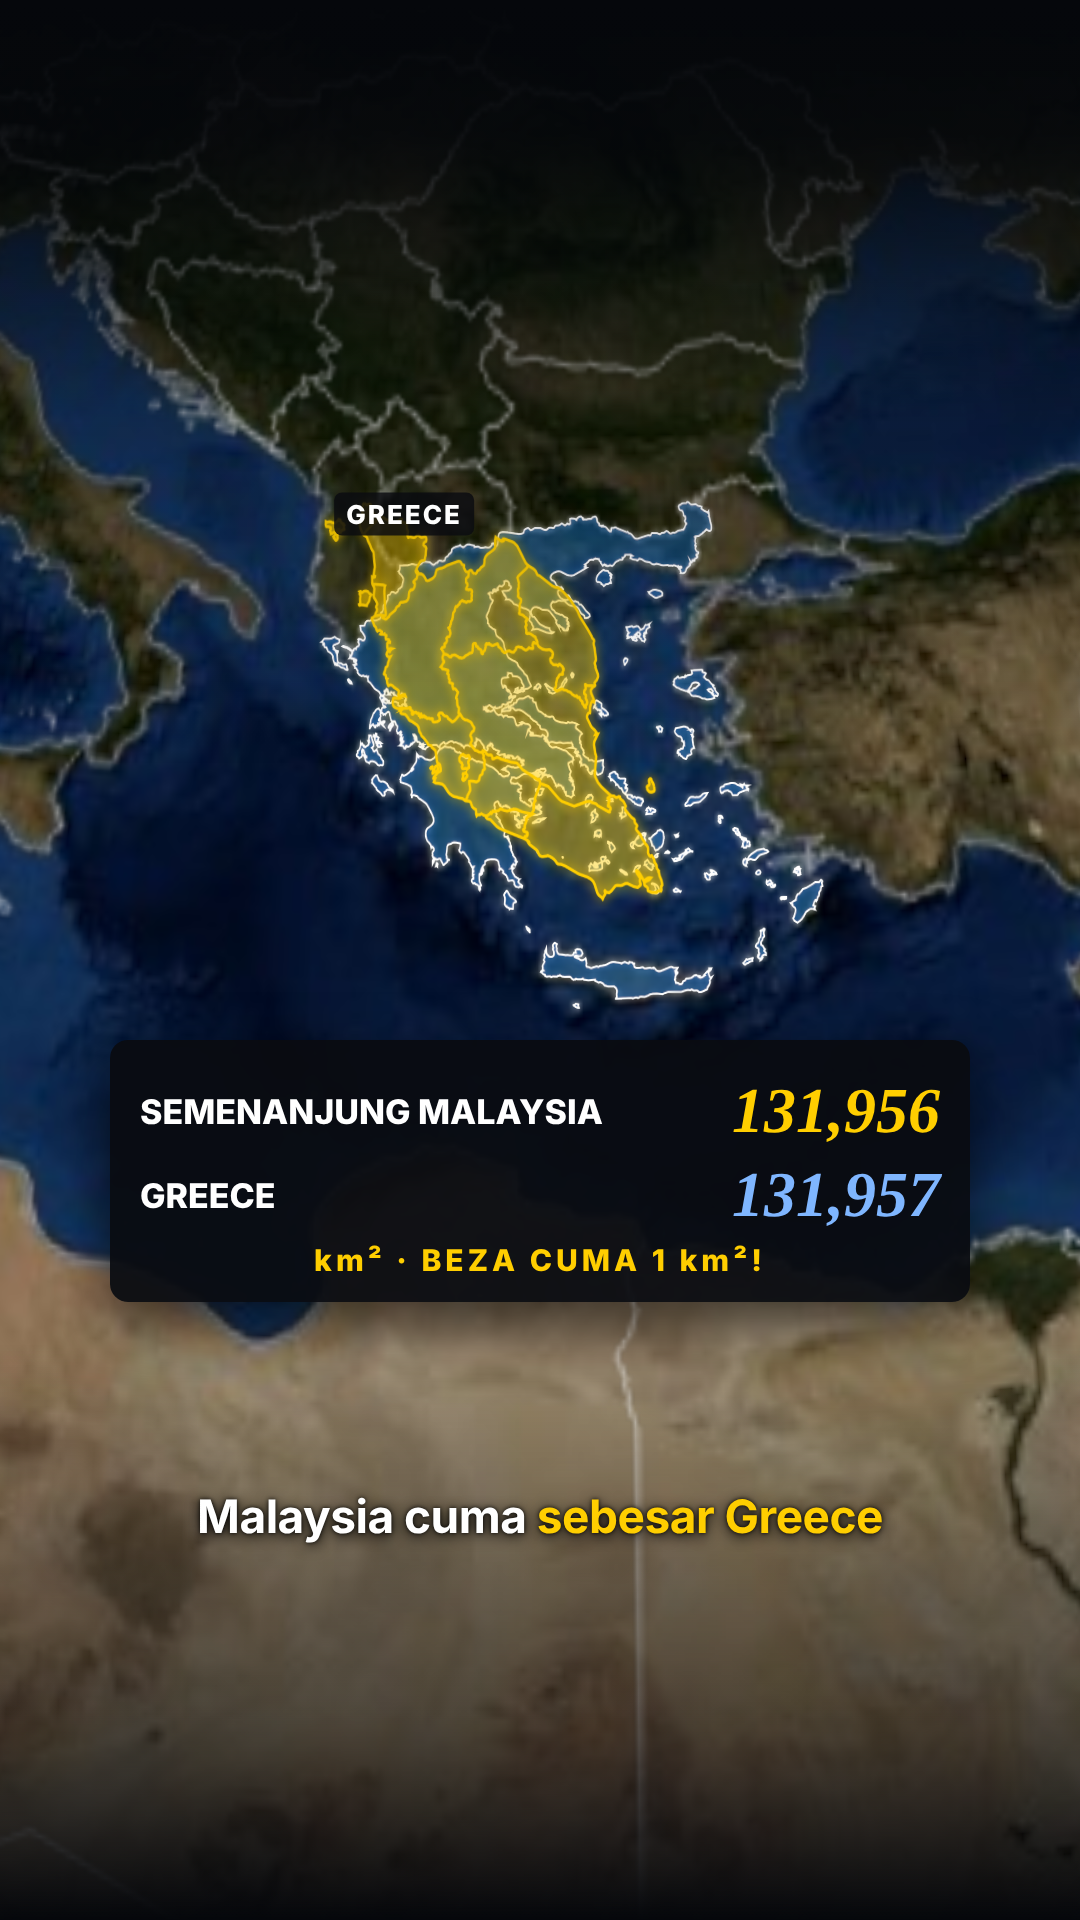
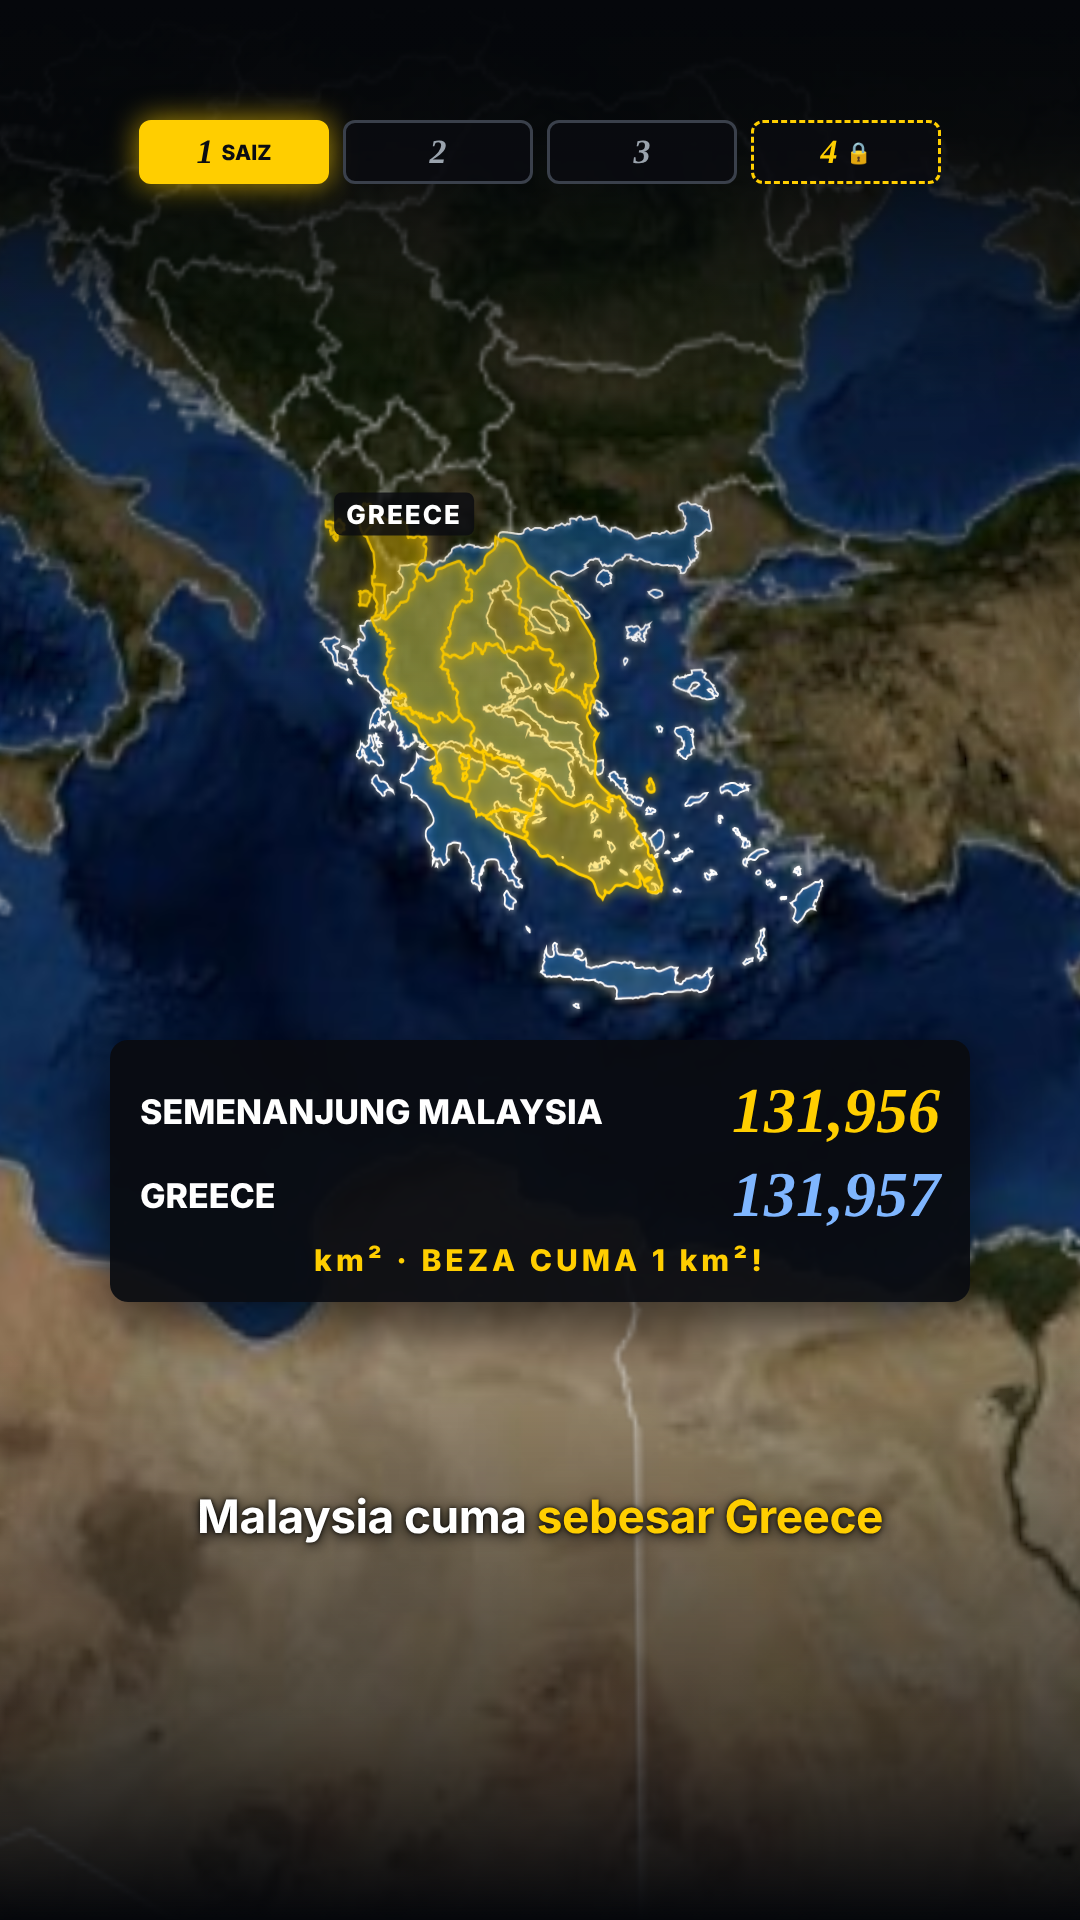
whatif-sabah-video: script v2 with open loop + re-hook, storyboard v2
Claude-Session: https://claude.ai/code/session_01GRVCpVLeEipRvyW43UFZDP

diff --git a/whatif-sabah-video/boards/frame.html b/whatif-sabah-video/boards/frame.html
@@ -193,6 +193,17 @@ html,body{width:1080px;height:1920px;background:#05070b;overflow:hidden;font-fam
 .chips{position:absolute;left:60px;right:60px;display:flex;flex-wrap:wrap;justify-content:center;gap:18px}
 .chips span{font:800 40px Inter;color:#0b0d12;background:#ffce00;padding:14px 26px;border-radius:14px;box-shadow:0 12px 30px rgba(0,0,0,.5)}
 .chips span.w{background:#fff}
+.trk{position:absolute;top:120px;left:0;right:0;display:flex;justify-content:center;gap:14px}
+.trk div{width:190px;height:64px;border-radius:12px;display:flex;align-items:center;justify-content:center;gap:8px;font:800 21px Inter;color:#9aa3ad;background:rgba(10,12,17,.85);border:3px solid #3a404b}
+.trk div b{font:italic 700 34px Serif}.trk div.on{color:#0b0d12;background:#ffce00;border-color:#ffce00}.trk div.now{box-shadow:0 0 30px rgba(255,206,0,.7)}
+.trk div.lock{color:#ffce00;border-color:#ffce00;border-style:dashed}
+.list4{position:absolute;left:90px;right:90px;display:grid;grid-template-columns:1fr 1fr;gap:18px}
+.list4 div{height:120px;border-radius:16px;background:rgba(10,12,17,.9);border:3px solid #3a404b;display:flex;align-items:center;justify-content:center;gap:14px;font:800 40px Inter;color:#c9d0d8}
+.list4 div b{font:italic 700 64px Serif;color:#ffce00}.list4 div.q{border:4px dashed #ffce00;color:#ffce00;box-shadow:0 0 40px rgba(255,206,0,.35)}
+.nots{position:absolute;left:0;right:0;text-align:center}
+.nots div{font:800 70px Inter;color:#c9d0d8;margin:10px 0;position:relative;display:inline-block}
+.nots div::after{content:"";position:absolute;left:-14px;right:-14px;top:50%;height:10px;background:#ff4d5e;transform:rotate(-4deg)}
+.nots .x{display:block}
 </style></head><body>
 <canvas id="gl" width="1080" height="1920"></canvas>
 <div class="vig"></div>
@@ -244,12 +255,14 @@ function penOnGreece() {
   c.fillStyle = "rgba(255,206,0,.45)"; c.fill("evenodd"); c.shadowColor = "#ffce00"; c.shadowBlur = 20; c.strokeStyle = "#ffce00"; c.lineWidth = 5; c.stroke(); c.shadowBlur = 0; L.tex.needsUpdate = true;
 }
 const person = `<svg viewBox="0 0 34 44"><circle cx="17" cy="10" r="8" fill="#ffce00"/><path d="M3 44 Q3 22 17 22 Q31 22 31 44Z" fill="#ffce00"/></svg>`;
+const trk = (n, lockShake) => html(`<div class="trk">${["SAIZ", "KINABALU", "RAKYAT", "TENAGA"].map((l, i) => `<div class="${i < n ? "on" : i === 3 ? "lock" : ""} ${i === n - 1 ? "now" : ""}"><b>${i + 1}</b>${i < n ? l : i === 3 ? "🔒" : ""}</div>`).join("")}</div>`);
 const FR = {
   1() { fillShapes("pen", PEN, myFlag); fillShapes("bor", [...SABAH, ...SARAWAK], solid("rgba(5,7,11,.6)", { stroke: "#ff4d5e", lw: 6, dash: [16, 10] }));
     g.setView({ lat: 4.2, lon: 109, dist: 1.5, tilt: 8, yShift: 0.14 });
     tag(2.6, 113.3, "SARAWAK?"); tag(5.4, 117.1, "SABAH?");
-    html(`<div class="ttl" style="top:1000px"><div class="a">BAYANGKAN…</div><div class="b" style="font-size:92px">MALAYSIA <span>TANPA</span></div><div class="b" style="font-size:72px">SABAH &amp; SARAWAK</div></div>`);
-    capB(`Malaysia tanpa <span class="r">Sabah dan Sarawak</span>`); },
+    html(`<div class="ttl" style="top:900px"><div class="a">BAYANGKAN…</div><div class="b" style="font-size:92px">MALAYSIA <span>TANPA</span></div><div class="b" style="font-size:72px">SABAH &amp; SARAWAK</div></div>`);
+    html(`<div class="list4" style="top:1110px"><div><b>1</b>?</div><div><b>2</b>?</div><div><b>3</b>?</div><div class="q"><b>4</b>🔒</div></div>`);
+    capB(`Yang keempat, <span class="r">ramai tak sangka!</span>`); },
   2() { fillShapes("pen", PEN, solid("rgba(255,206,0,.3)", { stroke: "#ffce00" })); fillShapes("bor", [...SABAH, ...SARAWAK], solid("rgba(255,206,0,.55)", { stroke: "#ffce00", glow: "#ffce00", lw: 5 }));
     g.setView({ lat: 3.8, lon: 109, dist: 1.5, tilt: 8, yShift: 0.06 });
     tag(4.4, 102.3, "TANAH MELAYU"); tag(2.6, 113.3, "SARAWAK", 1); tag(5.4, 117.1, "SABAH", 1);
@@ -258,32 +271,37 @@ const FR = {
   3() { fillShapes("pen", PEN, solid("rgba(120,130,145,.35)", { stroke: "#c9d0d8", lw: 3 })); fillShapes("bor", [...SABAH, ...SARAWAK], solid("rgba(255,206,0,.6)", { stroke: "#ffce00", glow: "#ffce00", lw: 5 }));
     g.setView({ lat: 4.0, lon: 109, dist: 1.5, tilt: 8, yShift: 0.18 });
     html(`<div class="big60" style="top:1000px"><div class="k">KELUASAN TANAH MALAYSIA</div><div class="n">60%</div><div class="u">DI SABAH &amp; SARAWAK</div><div class="split"><div style="width:40%;background:#5b6573;color:#fff">SEMENANJUNG 40%</div><div style="width:60%;background:#ffce00;color:#0b0d12">SABAH + SARAWAK 60%</div></div></div>`);
-    capB(`<span class="r">enam puluh peratus</span> tanah Malaysia!`); },
+    trk(1); capB(`<span class="r">enam puluh peratus</span> tanah Malaysia!`); },
   4() { fillShapes("gr", [GR], solid("rgba(13,94,175,.55)", { stroke: "#fff", lw: 4 }), 6, { lon0: 19, lon1: 30, lat0: 34, lat1: 42.5, ppd: 140 }); penOnGreece();
     g.setView({ lat: 38.6, lon: 23.5, dist: 0.85, tilt: 10, yShift: 0.12 });
     tag(41.6, 21.0, "GREECE");
     html(`<div class="cmp2" style="top:1040px"><div class="row"><span>SEMENANJUNG MALAYSIA</span><b style="color:#ffce00">131,956</b></div><div class="row"><span>GREECE</span><b style="color:#7fb6ff">131,957</b></div><div class="eq">km² · BEZA CUMA 1 km²!</div></div>`);
-    capB(`Malaysia cuma <span class="r">sebesar Greece</span>`); },
+    trk(1); capB(`Malaysia cuma <span class="r">sebesar Greece</span>`); },
   5() { g.setView({ lat: 6.02, lon: 116.56, dist: 0.06, tilt: 10, yShift: 0.12 });
     pin(6.075, 116.558, "GUNUNG KINABALU", "4,095 m · PUNCAK TERTINGGI MALAYSIA");
-    html(`<div class="ttl" style="top:250px"><div class="a">KEDUA</div><div class="b" style="font-size:90px">4,095 <span>METER</span></div></div>`);
-    capB(`puncak tertinggi negara, <span class="r">bukan milik kita lagi</span>`); },
+    html(`<div class="ttl" style="top:250px"><div class="a">KEDUA · PUNCAK TERTINGGI</div><div class="b" style="font-size:90px">4,095 <span>METER</span></div></div>`);
+    trk(2); capB(`puncak tertinggi negara, <span class="r">bukan milik kita lagi</span>`); },
   6() { fillShapes("bor", [...SABAH, ...SARAWAK], solid("rgba(255,206,0,.45)", { stroke: "#ffce00", lw: 4 })); g.setView({ lat: 4.0, lon: 114.5, dist: 0.9, tilt: 8, yShift: 0.16 });
     html(`<div class="big60" style="top:980px"><div class="k">KETIGA · BANCI 2020</div><div class="n" style="font-size:150px">5.9 JUTA</div><div class="u">RAKYAT SABAH &amp; SARAWAK</div><div class="ppl">${Array.from({ length: 6 }, () => person).join("")}</div></div>`);
-    capB(`hampir <span class="r">enam juta rakyat</span> Sabah dan Sarawak`); },
-  7() { g.setView({ lat: 3.22, lon: 113.08, dist: 0.05, tilt: 10, yShift: 0.12 });
+    trk(3); capB(`hampir <span class="r">enam juta rakyat</span> Sabah dan Sarawak`); },
+  7() { g.setView({ lat: 4.0, lon: 113.5, dist: 1.0, tilt: 8, yShift: 0.1 }); html(`<div style="position:absolute;inset:0;background:radial-gradient(ellipse at 50% 45%,rgba(5,10,30,.35),rgba(5,10,30,.93))"></div>`);
+    trk(3); html(`<div style="position:absolute;top:300px;left:0;right:0;text-align:center"><span style="display:inline-block;font:800 40px Inter;letter-spacing:6px;color:#0b0d12;background:#ffce00;padding:8px 22px;border-radius:8px">TUNGGU DULU…</span></div>`);
+    html(`<div class="nots" style="top:520px"><div>BUKAN TANAH</div><span class="x"></span><div>BUKAN GUNUNG</div></div>`);
+    html(`<div class="ttl" style="top:900px"><div class="b" style="font-size:80px">TAPI YANG <span>GERAKKAN</span></div><div class="b" style="font-size:80px">EKONOMI KITA…</div></div>`);
+    capB(`bukan tanah, bukan gunung, <span class="r">tapi…</span>`); },
+  8() { g.setView({ lat: 3.22, lon: 113.08, dist: 0.05, tilt: 10, yShift: 0.12 });
     pin(3.265, 113.07, "BINTULU, SARAWAK", "KOMPLEKS LNG PETRONAS");
-    html(`<div class="ttl" style="top:250px"><div class="a">KEEMPAT · TENAGA</div><div class="b" style="font-size:84px">GAS <span>ASLI CECAIR</span></div></div>`);
+    html(`<div class="ttl" style="top:250px"><div class="a">KEEMPAT</div><div class="b" style="font-size:110px">TENAGA<span>!</span></div></div>`);
     html(`<div class="big60" style="top:1080px"><div class="k">ANTARA KOMPLEKS LNG TERBESAR DUNIA</div><div class="n" style="font-size:120px">~29 JUTA</div><div class="u">TAN SETAHUN · DI SATU LOKASI</div></div>`);
-    capB(`antara kompleks gas asli cecair <span class="r">terbesar di dunia!</span>`); },
-  8() { fillShapes("all", [...PEN, ...SABAH, ...SARAWAK], myFlag); g.setView({ lat: 3.8, lon: 109, dist: 1.6, tilt: 8, yShift: -0.02 });
+    trk(4); capB(`antara kompleks gas asli cecair <span class="r">terbesar di dunia!</span>`); },
+  9() { fillShapes("all", [...PEN, ...SABAH, ...SARAWAK], myFlag); g.setView({ lat: 3.8, lon: 109, dist: 1.6, tilt: 8, yShift: -0.02 });
     html(`<div class="qq" style="top:960px;position:absolute;left:60px;right:60px;text-align:center;font:800 60px/1.1 Inter;color:#f6f3ec;text-shadow:0 6px 24px rgba(0,0,0,.9)">APA MALAYSIA<br><span style="color:#ffce00">PALING RASA HILANG?</span></div>`);
     html(`<div class="chips" style="top:1170px"><span>📏 SAIZ</span><span class="w">🏔 KINABALU</span><span>👥 RAKYAT</span><span class="w">⚡ TENAGA</span></div>`);
     html(`<div class="kom" style="top:1360px;display:block;position:absolute;left:0;right:0;text-align:center;font:800 54px Inter;color:#ffce00;letter-spacing:4px">KOMEN ↓</div>`);
     capB(`apa yang Malaysia <span class="r">paling rasa hilang?</span>`); },
 };
 FR[F]();
-const PO = { 5: [1], 7: [2] }; [0, 1, 2].forEach((i) => g.setPatchOp(i, (PO[F] || []).includes(i) ? 1 : 0));
+const PO = { 5: [1], 8: [2] }; [0, 1, 2].forEach((i) => g.setPatchOp(i, (PO[F] || []).includes(i) ? 1 : 0));
 g.render();
 document.body.dataset.ready = "1";
 </script></body></html>

diff --git a/whatif-sabah-video/boards/storyboard.html b/whatif-sabah-video/boards/storyboard.html
@@ -17,17 +17,18 @@ h1{font:800 46px Inter;letter-spacing:-1px}h1 span{color:#ffce00}
 .vo{font:400 17px/1.4 Inter;color:#dfe5ea;font-style:italic;margin-bottom:12px}
 .fx{font:400 15px/1.45 Inter;color:#9aa3ad}.fx b{color:#ffcf4a;font-weight:700}
 </style></head><body>
-<h1>WHAT IF: <span>MALAYSIA TANPA SABAH &amp; SARAWAK</span></h1>
-<div class="meta">MAP ANIMATION · 1080×1920 · ≈51 s · nada bangga, bukan politik · fakta: Wikipedia (keluasan, banci 2020), Petronas</div>
+<h1>WHAT IF: <span>MALAYSIA TANPA SABAH &amp; SARAWAK</span> · v2</h1>
+<div class="meta">MAP ANIMATION · 1080×1920 · ≈58 s · hook dengan open loop 1-2-3-4🔒 · re-hook sebelum #4 · penanda kemajuan di atas skrin sepanjang video</div>
 <div class="grid">
-<div class="f"><img src="frame-01.png"><div><div class="n">01 · 0:00</div><div class="t">Hook</div><div class="vo">"Bayangkan, Malaysia tanpa Sabah dan Sarawak. Peta kita tinggal Semenanjung je!"</div><div class="fx">Peta Malaysia berbendera. Sabah dan Sarawak <b>gelap dengan garis putus merah</b> dan tanda "?", seolah-olah hilang dari peta.</div></div></div>
-<div class="f"><img src="frame-02.png"><div><div class="n">02 · 0:07</div><div class="t">1963</div><div class="vo">"Tahun 1963, Sabah dan Sarawak bersama Tanah Melayu bentuk Malaysia."</div><div class="fx">Tiga wilayah menyala emas dan bercantum. <b>16 SEPT 1963 · LAHIRNYA MALAYSIA</b>.</div></div></div>
-<div class="f"><img src="frame-03.png"><div><div class="n">03 · 0:13</div><div class="t">60%</div><div class="vo">"Pertama, saiz. Sabah dan Sarawak ialah 60% tanah Malaysia!"</div><div class="fx">Borneo emas, Semenanjung kelabu. Kad <b>60%</b> dengan bar 40 lawan 60.</div></div></div>
-<div class="f"><img src="frame-04.png"><div><div class="n">04 · 0:19</div><div class="t">Sebesar Greece</div><div class="vo">"Tanpa mereka, Malaysia cuma sebesar Greece."</div><div class="fx">Terbang ke Eropah. <b>Bentuk Semenanjung dipindah atas Greece, saiz sebenar</b>. 131,956 lawan 131,957 km², beza cuma 1 km²!</div></div></div>
-<div class="f"><img src="frame-05.png"><div><div class="n">05 · 0:24</div><div class="t">Kinabalu</div><div class="vo">"Kedua, Gunung Kinabalu, 4,095 meter, puncak tertinggi negara, bukan milik kita lagi."</div><div class="fx">Zoom ke Kinabalu (imej satelit tajam). Pin dan <b>4,095 METER</b>.</div></div></div>
-<div class="f"><img src="frame-06.png"><div><div class="n">06 · 0:31</div><div class="t">5.9 juta</div><div class="vo">"Ketiga, hampir enam juta rakyat Sabah dan Sarawak, bukan lagi rakyat Malaysia."</div><div class="fx">Borneo menyala. Kad <b>5.9 JUTA</b> (banci 2020) dengan ikon rakyat.</div></div></div>
-<div class="f"><img src="frame-07.png"><div><div class="n">07 · 0:37</div><div class="t">Bintulu</div><div class="vo">"Dan keempat, tenaga. Di Bintulu, ada antara kompleks gas asli cecair terbesar di dunia!"</div><div class="fx">Zoom ke Bintulu. Pin kompleks LNG Petronas, dan <b>~29 JUTA TAN SETAHUN</b>.</div></div></div>
-<div class="f"><img src="frame-08.png"><div><div class="n">08 · 0:45</div><div class="t">CTA</div><div class="vo">"Jadi kau rasa, tanpa Sabah dan Sarawak, apa yang Malaysia paling rasa hilang? Komen kat bawah!"</div><div class="fx">Malaysia penuh berbendera. Empat pilihan: <b>SAIZ · KINABALU · RAKYAT · TENAGA</b>, dan <b>KOMEN ↓</b>.</div></div></div>
+<div class="f"><img src="frame-01.png"><div><div class="n">01 · 0:00</div><div class="t">Hook + open loop</div><div class="vo">"Bayangkan, Malaysia tanpa Sabah dan Sarawak… Ada empat benda besar yang kita akan hilang. Yang keempat, ramai tak sangka!"</div><div class="fx">Sabah dan Sarawak gelap dengan garis putus merah. Kotak <b>1 · 2 · 3 · 4🔒</b> keluar, dan kotak ke-4 berkunci, bersinar.</div></div></div>
+<div class="f"><img src="frame-02.png"><div><div class="n">02 · 0:09</div><div class="t">1963</div><div class="vo">"Tahun 1963, kita bersatu jadi Malaysia. Tapi kalau tak?"</div><div class="fx">Tiga wilayah menyala emas. <b>16 SEPT 1963 · LAHIRNYA MALAYSIA</b>.</div></div></div>
+<div class="f"><img src="frame-03.png"><div><div class="n">03 · 0:14</div><div class="t">#1 Saiz</div><div class="vo">"Pertama, saiz. Sabah dan Sarawak ialah 60% tanah Malaysia!"</div><div class="fx">Penanda atas: <b>1 SAIZ</b> menyala. Borneo emas, kad <b>60%</b>.</div></div></div>
+<div class="f"><img src="frame-04.png"><div><div class="n">04 · 0:19</div><div class="t">Sebesar Greece</div><div class="vo">"Tanpa mereka, Malaysia cuma sebesar Greece."</div><div class="fx">Semenanjung dipindah atas Greece pada <b>saiz sebenar</b>. 131,956 lawan 131,957 km².</div></div></div>
+<div class="f"><img src="frame-05.png"><div><div class="n">05 · 0:24</div><div class="t">#2 Kinabalu</div><div class="vo">"Kedua, Gunung Kinabalu, 4,095 meter, puncak tertinggi negara, bukan milik kita lagi."</div><div class="fx"><b>2 KINABALU</b> menyala. Zoom ke Kinabalu (imej tajam), <b>4,095 METER</b>.</div></div></div>
+<div class="f"><img src="frame-06.png"><div><div class="n">06 · 0:31</div><div class="t">#3 Rakyat</div><div class="vo">"Ketiga, hampir enam juta rakyat Sabah dan Sarawak, bukan lagi rakyat Malaysia."</div><div class="fx"><b>3 RAKYAT</b> menyala. Kad <b>5.9 JUTA</b> (banci 2020).</div></div></div>
+<div class="f"><img src="frame-07.png"><div><div class="n">07 · 0:37</div><div class="t">Re-hook</div><div class="vo">"Tapi tunggu dulu! Yang keempat ni, bukan tanah, bukan gunung, tapi benda yang gerakkan ekonomi kita…"</div><div class="fx"><b>Muzik berhenti, flash, kotak 4🔒 bergegar.</b> BUKAN TANAH ✕ dan BUKAN GUNUNG ✕ dipangkah satu-satu.</div></div></div>
+<div class="f"><img src="frame-08.png"><div><div class="n">08 · 0:44</div><div class="t">#4 Tenaga</div><div class="vo">"Tenaga! Di Bintulu, ada antara kompleks gas asli cecair terbesar di dunia!"</div><div class="fx">Kunci pecah, <b>4 TENAGA</b> menyala. Zoom laju ke Bintulu, kad <b>~29 JUTA TAN SETAHUN</b>.</div></div></div>
+<div class="f"><img src="frame-09.png"><div><div class="n">09 · 0:51</div><div class="t">CTA</div><div class="vo">"Jadi kau rasa, tanpa Sabah dan Sarawak, apa yang Malaysia paling rasa hilang? Komen kat bawah!"</div><div class="fx">Malaysia penuh berbendera. Empat pilihan: <b>SAIZ · KINABALU · RAKYAT · TENAGA</b>, dan <b>KOMEN ↓</b>.</div></div></div>
 </div>
-<div class="meta" style="margin-top:30px">4 perkara yang "hilang", setiap satu ada visual sendiri · perbandingan saiz sebenar atas Greece · imej satelit tajam untuk zoom · satu CTA</div>
+<div class="meta" style="margin-top:30px">Penonton tunggu kotak ke-4 · perbandingan saiz sebenar atas Greece · imej satelit tajam untuk zoom · satu CTA</div>
 </body></html>

diff --git a/whatif-sabah-video/SCRIPT.md b/whatif-sabah-video/SCRIPT.md
@@ -1,5 +1,5 @@
-# Skrip VO: "What If: Malaysia Tanpa Sabah & Sarawak" (draf 1, ≈55 s)
+# Skrip VO: "What If: Malaysia Tanpa Sabah & Sarawak" (draf 2, ≈58 s, dengan open loop + re-hook)
 
 Gaya: MAP ANIMATION (what-if). Fakta: `research/whatif-sabah-sarawak.md`. Nada: bangga, bukan politik; soalan akhir pasal apa yang Malaysia akan hilang.
 
-Bayangkan, Malaysia tanpa Sabah dan Sarawak. Peta kita tinggal Semenanjung je! Dan apa yang hilang, lebih besar dari yang kau sangka. Tahun sembilan belas enam puluh tiga, Sabah dan Sarawak bersama Tanah Melayu bentuk Malaysia. Tapi kalau tak? Pertama, saiz. Sabah dan Sarawak ialah enam puluh peratus tanah Malaysia! Tanpa mereka, Malaysia cuma sebesar Greece. Kedua, Gunung Kinabalu, empat ribu sembilan puluh lima meter, puncak tertinggi negara, bukan milik kita lagi. Ketiga, hampir enam juta rakyat Sabah dan Sarawak, bukan lagi rakyat Malaysia. Dan keempat, tenaga. Di Bintulu, ada antara kompleks gas asli cecair terbesar di dunia! Jadi kau rasa, tanpa Sabah dan Sarawak, apa yang Malaysia paling rasa hilang? Komen kat bawah!
+Bayangkan, Malaysia tanpa Sabah dan Sarawak. Peta kita tinggal Semenanjung je! Dan ada empat benda besar yang kita akan hilang. Yang keempat, ramai tak sangka! Tahun sembilan belas enam puluh tiga, kita bersatu jadi Malaysia. Tapi kalau tak? Pertama, saiz. Sabah dan Sarawak ialah enam puluh peratus tanah Malaysia! Tanpa mereka, Malaysia cuma sebesar Greece. Kedua, Gunung Kinabalu, empat ribu sembilan puluh lima meter, puncak tertinggi negara, bukan milik kita lagi. Ketiga, hampir enam juta rakyat Sabah dan Sarawak, bukan lagi rakyat Malaysia. Tapi tunggu dulu! Yang keempat ni, bukan tanah, bukan gunung, tapi benda yang gerakkan ekonomi kita. Tenaga! Di Bintulu, ada antara kompleks gas asli cecair terbesar di dunia! Jadi kau rasa, tanpa Sabah dan Sarawak, apa yang Malaysia paling rasa hilang? Komen kat bawah!
